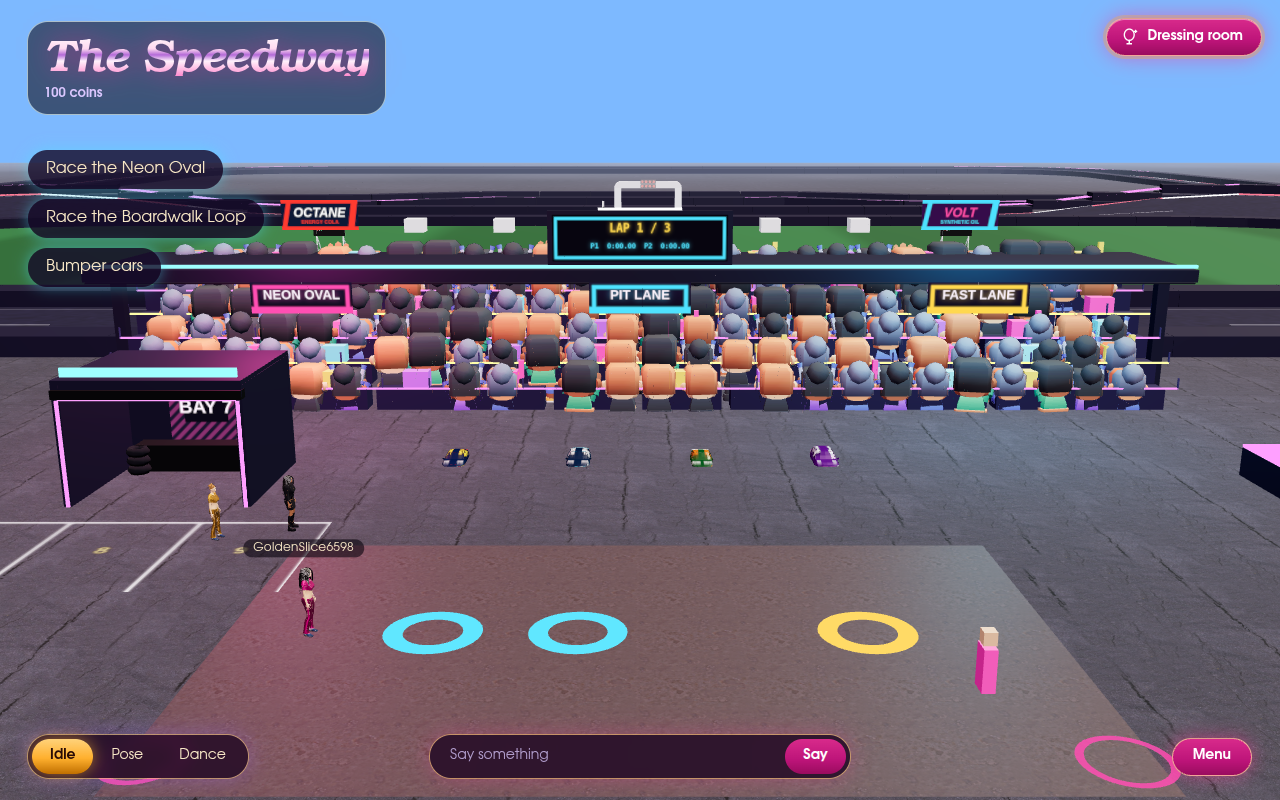
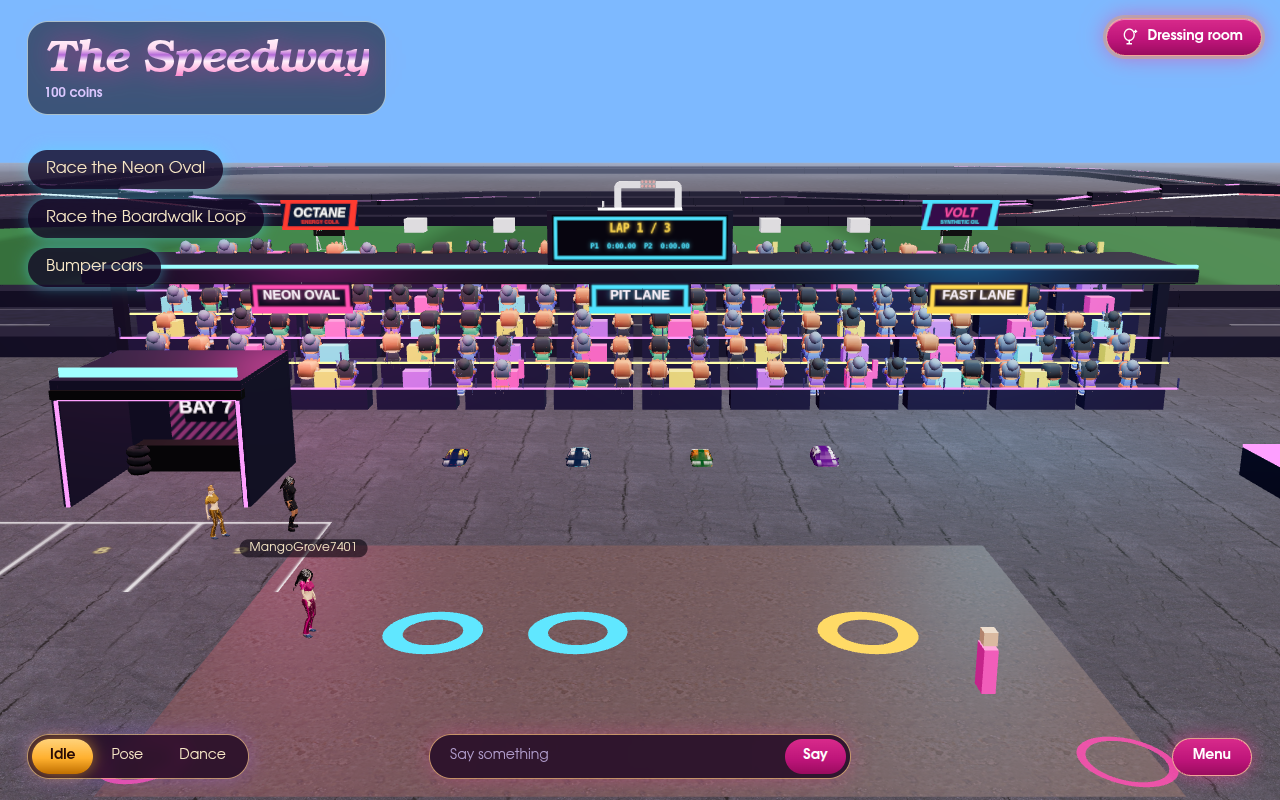
fix(speedway): real-size mini characters (the baked geometry ignored its node scale), a smaller crew and flagstand

diff --git a/src/client/rooms/speedway/peopleModel.ts b/src/client/rooms/speedway/peopleModel.ts
@@ -19,7 +19,7 @@ export const FAN_MODELS = [
 ] as const;
 export const CREW_MODEL = "male-b-crouch";
 
-/** Kenney's characters are about 0.67 m tall; a fan stands about 1.7 m. */
+/** Kenney's characters are 0.67 m tall: this makes a person 1.7 m. */
 export const PERSON_SCALE = 2.5;
 
 const url = (name: string) => `/models/speedway/people-${name}.glb`;
@@ -36,9 +36,16 @@ export function usePerson(name: string): {
       geometry: THREE.BufferGeometry;
       material: THREE.Material;
     } | null = null;
+    // the optimized files quantize positions and keep the real size in the
+    // node's transform: bake it into a copy of the geometry, so a person is
+    // really 0.67 m tall here
+    scene.updateMatrixWorld(true);
     scene.traverse((o) => {
       if (o instanceof THREE.Mesh && !Array.isArray(o.material) && !found)
-        found = { geometry: o.geometry, material: o.material };
+        found = {
+          geometry: o.geometry.clone().applyMatrix4(o.matrixWorld),
+          material: o.material,
+        };
     });
     return found;
   }, [scene]);

diff --git a/src/client/rooms/speedway/Flagstand.tsx b/src/client/rooms/speedway/Flagstand.tsx
@@ -53,13 +53,13 @@ export function Flagstand({
       <group position={[-4, 0, -28.5]}>
         <primitive
           object={pylon.clone(true)}
-          scale={[0.3, 0.45, 0.3]}
+          scale={[0.15, 0.22, 0.15]}
           position={[0, 0, 0]}
         />
         <primitive
           object={flag.clone(true)}
           scale={[1.5, 1.5, 1.5]}
-          position={[0, 1.2, 0]}
+          position={[0, 0.9, 0]}
         />
       </group>
     </group>

diff --git a/src/client/rooms/speedway/PitRoad.tsx b/src/client/rooms/speedway/PitRoad.tsx
@@ -67,7 +67,7 @@ export function PitRoad({
       for (const dx of [-1.9, 1.9, 0]) {
         dummy.position.set(bx + dx, 0, CREW_Z);
         dummy.rotation.set(0, Math.PI, 0);
-        dummy.scale.setScalar(PERSON_SCALE * 0.4);
+        dummy.scale.setScalar(PERSON_SCALE * 0.62);
         dummy.updateMatrix();
         mesh.setMatrixAt(idx, dummy.matrix);
         idx++;

diff --git a/src/client/rooms/speedway/Crowd.tsx b/src/client/rooms/speedway/Crowd.tsx
@@ -29,7 +29,7 @@ function seatPlan(): Seat[][] {
         z: -r * 1.1 + 0.15,
         // facing the track (-z), a little each way
         yaw: Math.PI + (rand() - 0.5) * 0.4,
-        scale: PERSON_SCALE * (0.9 + rand() * 0.12) * 0.62,
+        scale: PERSON_SCALE * (0.88 + rand() * 0.12) * 0.9,
       });
     }
   }
